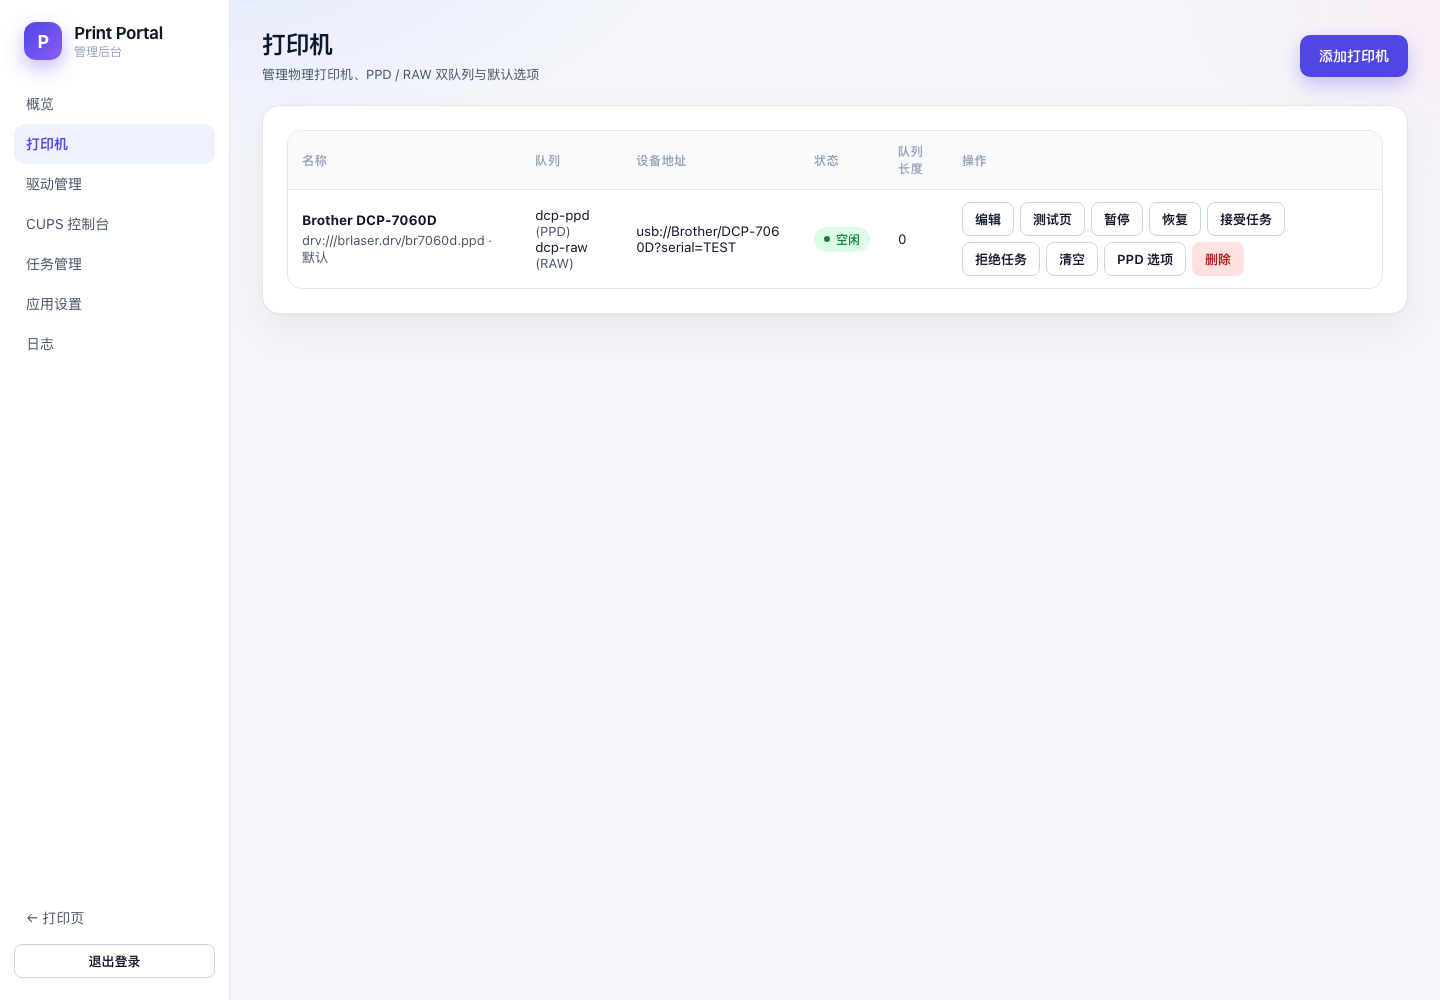
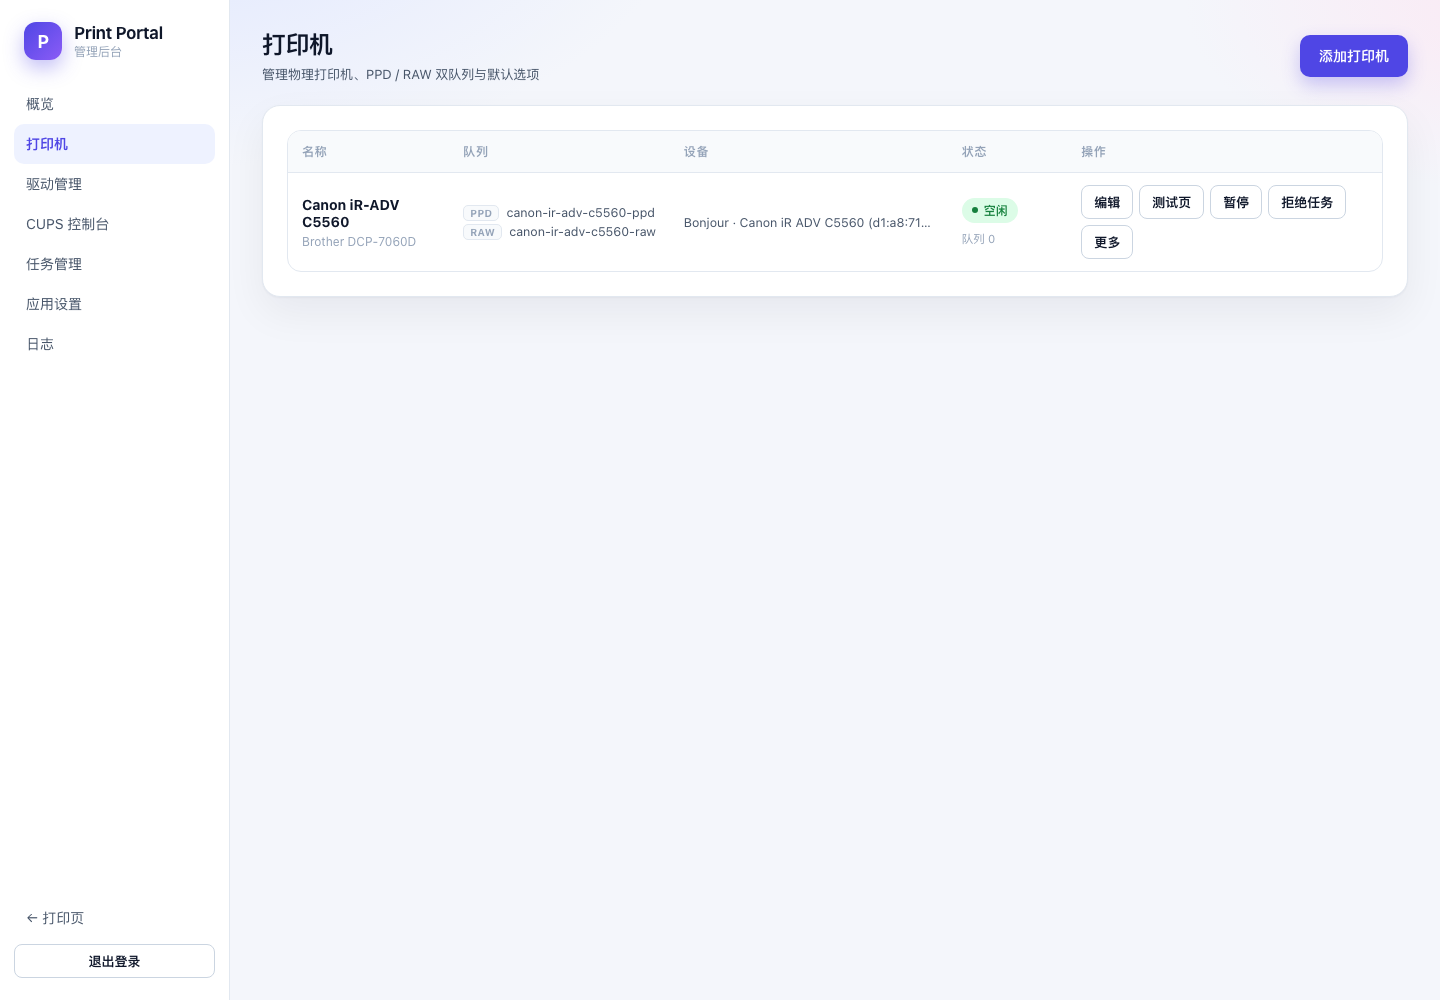
style: redesign printer list with readable model/device summaries

Changed region(s): [[0.625, 0.155, 0.9375, 0.279], [0.1875, 0.155, 0.625, 0.279], [0.5625, 0.155, 0.5938, 0.186]]

diff --git a/web/src/views/PrintersView.vue b/web/src/views/PrintersView.vue
@@ -484,7 +484,39 @@ async function saveOptions() {
   }
 }
 
-onMounted(load)
+function prettyModel(p: AdminPrinter) {
+  if (p.model === 'everywhere') return 'IPP Everywhere（免驱动）'
+  const match = models.value.find((m) => m.name === p.model)
+  if (match?.description) return match.description
+  const base = (p.model.split('/').pop() || p.model).replace(/\.(gz|ppd)$/i, '')
+  return base.replace(/\s+CUPS$/i, '') || '—'
+}
+
+function prettyDevice(uri: string) {
+  if (uri.startsWith('usb://')) {
+    return 'USB · ' + decodeURIComponent(uri.slice(6).split('?')[0]).replace('/', ' ')
+  }
+  if (uri.startsWith('dnssd://')) {
+    const raw = decodeURIComponent(uri.slice(8)).split('/')[0].split('._')[0]
+    return 'Bonjour · ' + raw.replace(/-/g, ' ').replace(/\s+@\s+/g, ' @ ')
+  }
+  if (uri.startsWith('ipp://') || uri.startsWith('ipps://')) {
+    try {
+      const parsed = new URL(uri)
+      return (uri.startsWith('ipps://') ? 'IPPS · ' : 'IPP · ') + parsed.hostname
+    } catch {
+      /* fall through */
+    }
+  }
+  if (uri.startsWith('socket://')) return 'TCP/IP · ' + uri.slice(9)
+  if (uri.startsWith('lpd://')) return 'LPD · ' + uri.slice(6)
+  return uri.length > 60 ? uri.slice(0, 60) + '…' : uri
+}
+
+onMounted(() => {
+  load()
+  loadModels()
+})
 </script>
 
 <template>
@@ -501,32 +533,41 @@ onMounted(load)
     <div v-else class="table-wrap">
       <table class="table">
         <thead>
-          <tr><th>名称</th><th>队列</th><th>设备地址</th><th>状态</th><th>队列长度</th><th>操作</th></tr>
+          <tr><th>名称</th><th>队列</th><th>设备</th><th>状态</th><th>操作</th></tr>
         </thead>
         <tbody>
           <tr v-for="p in printers" :key="p.id">
-            <td>
+            <td class="printer-name-cell">
               <strong>{{ p.name }}</strong>
-              <div class="admin-sub">{{ p.model || '—' }}{{ p.is_default ? ' · 默认' : '' }}</div>
+              <div class="model-label">{{ prettyModel(p) }}<span v-if="p.is_default"> · 默认</span></div>
+            </td>
+            <td class="queue-cell">
+              <div class="queue-line"><span class="queue-tag">PPD</span><span class="queue-name">{{ p.ppd_queue }}</span></div>
+              <div class="queue-line"><span class="queue-tag">RAW</span><span class="queue-name">{{ p.raw_queue }}</span></div>
+            </td>
+            <td><div class="device-summary" :title="p.device_uri">{{ prettyDevice(p.device_uri) }}</div></td>
+            <td>
+              <div class="status-cell">
+                <StatusBadge :status="p.state" />
+                <span class="queue-count">队列 {{ p.queue_length }}</span>
+              </div>
             </td>
             <td>
-              <div>{{ p.ppd_queue }} <span class="admin-sub">(PPD)</span></div>
-              <div>{{ p.raw_queue }} <span class="admin-sub">(RAW)</span></div>
-            </td>
-            <td style="max-width: 260px; word-break: break-all">{{ p.device_uri }}</td>
-            <td><StatusBadge :status="p.state" /></td>
-            <td>{{ p.queue_length }}</td>
-            <td>
-              <div style="display: flex; flex-wrap: wrap; gap: 6px">
+              <div class="row-actions">
                 <button class="btn btn-ghost btn-sm" @click="openEdit(p)">编辑</button>
                 <button class="btn btn-ghost btn-sm" @click="action(p, 'test')">测试页</button>
                 <button v-if="p.state === 'stopped'" class="btn btn-ghost btn-sm" @click="action(p, 'resume')">恢复</button>
                 <button v-else class="btn btn-ghost btn-sm" @click="action(p, 'pause')">暂停</button>
                 <button v-if="p.accepting" class="btn btn-ghost btn-sm" @click="action(p, 'reject')">拒绝任务</button>
                 <button v-else class="btn btn-ghost btn-sm" @click="action(p, 'accept')">接受任务</button>
-                <button class="btn btn-ghost btn-sm" @click="action(p, 'purge')">清空</button>
-                <button class="btn btn-ghost btn-sm" @click="loadOptions(p)">PPD 选项</button>
-                <button class="btn btn-danger btn-sm" @click="remove(p)">删除</button>
+                <details class="action-menu">
+                  <summary class="btn btn-ghost btn-sm">更多</summary>
+                  <div class="action-menu-panel">
+                    <button class="btn btn-ghost btn-sm" @click="loadOptions(p)">PPD 选项</button>
+                    <button class="btn btn-ghost btn-sm" @click="action(p, 'purge')">清空队列</button>
+                    <button class="btn btn-danger btn-sm" @click="remove(p)">删除打印机</button>
+                  </div>
+                </details>
               </div>
             </td>
           </tr>

diff --git a/web/src/styles.css b/web/src/styles.css
@@ -530,6 +530,115 @@ table.table {
   background: var(--surface-2);
 }
 
+/* Printer table cells */
+.printer-name-cell strong {
+  font-size: 14px;
+}
+
+.model-label {
+  margin-top: 4px;
+  font-size: 12px;
+  color: var(--text-3);
+}
+
+.queue-cell {
+  font-size: 12.5px;
+}
+
+.queue-line {
+  display: flex;
+  align-items: center;
+  gap: 7px;
+  margin: 3px 0;
+  white-space: nowrap;
+}
+
+.queue-tag {
+  display: inline-flex;
+  align-items: center;
+  padding: 1px 6px;
+  border-radius: 5px;
+  border: 1px solid var(--line);
+  background: var(--surface-2);
+  color: var(--text-3);
+  font-size: 10px;
+  font-weight: 700;
+  letter-spacing: 0.03em;
+}
+
+.queue-name {
+  color: var(--text-2);
+  overflow: hidden;
+  text-overflow: ellipsis;
+}
+
+.device-summary {
+  max-width: 250px;
+  color: var(--text-2);
+  font-size: 12.5px;
+  white-space: nowrap;
+  overflow: hidden;
+  text-overflow: ellipsis;
+}
+
+.status-cell {
+  display: flex;
+  align-items: center;
+  gap: 8px;
+  flex-wrap: wrap;
+}
+
+.queue-count {
+  color: var(--text-3);
+  font-size: 11.5px;
+}
+
+.row-actions {
+  display: flex;
+  align-items: center;
+  gap: 6px;
+  flex-wrap: wrap;
+}
+
+.action-menu {
+  position: relative;
+}
+
+.action-menu summary {
+  list-style: none;
+  cursor: pointer;
+}
+
+.action-menu summary::-webkit-details-marker {
+  display: none;
+}
+
+.action-menu[open] summary {
+  border-color: var(--accent);
+  color: var(--accent);
+}
+
+.action-menu-panel {
+  position: absolute;
+  right: 0;
+  top: calc(100% + 5px);
+  z-index: 60;
+  min-width: 130px;
+  padding: 6px;
+  background: var(--surface);
+  border: 1px solid var(--line);
+  border-radius: 10px;
+  box-shadow: 0 14px 32px rgba(15, 23, 42, 0.16);
+  display: flex;
+  flex-direction: column;
+  gap: 4px;
+}
+
+.action-menu-panel .btn {
+  justify-content: flex-start;
+  width: 100%;
+}
+
 /* ---------- Print page ---------- */
 .print-layout {
   display: grid;
